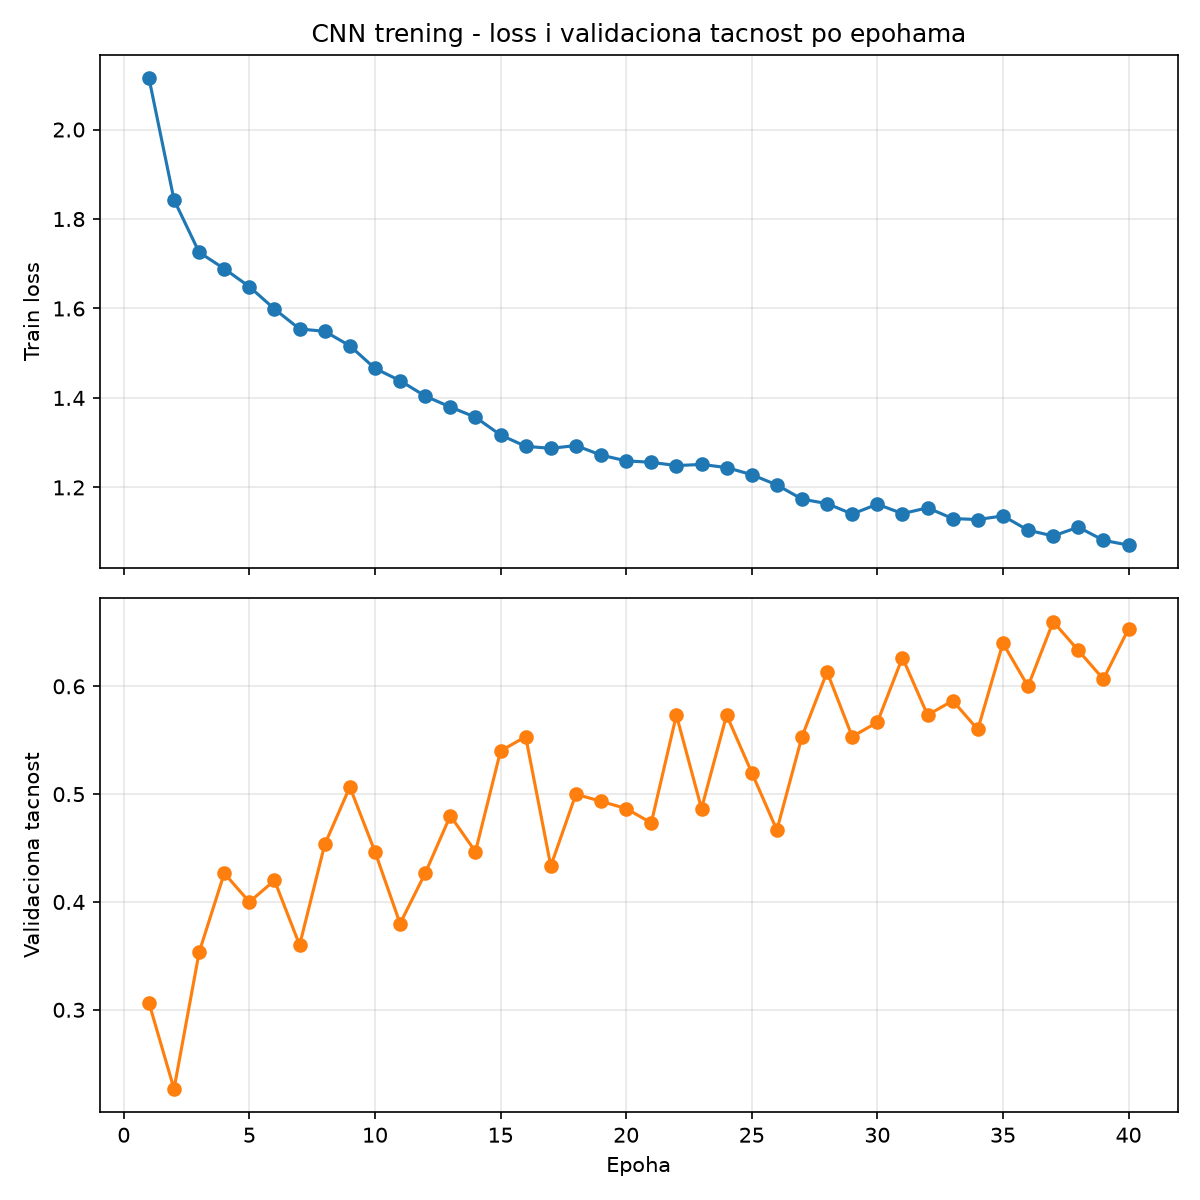
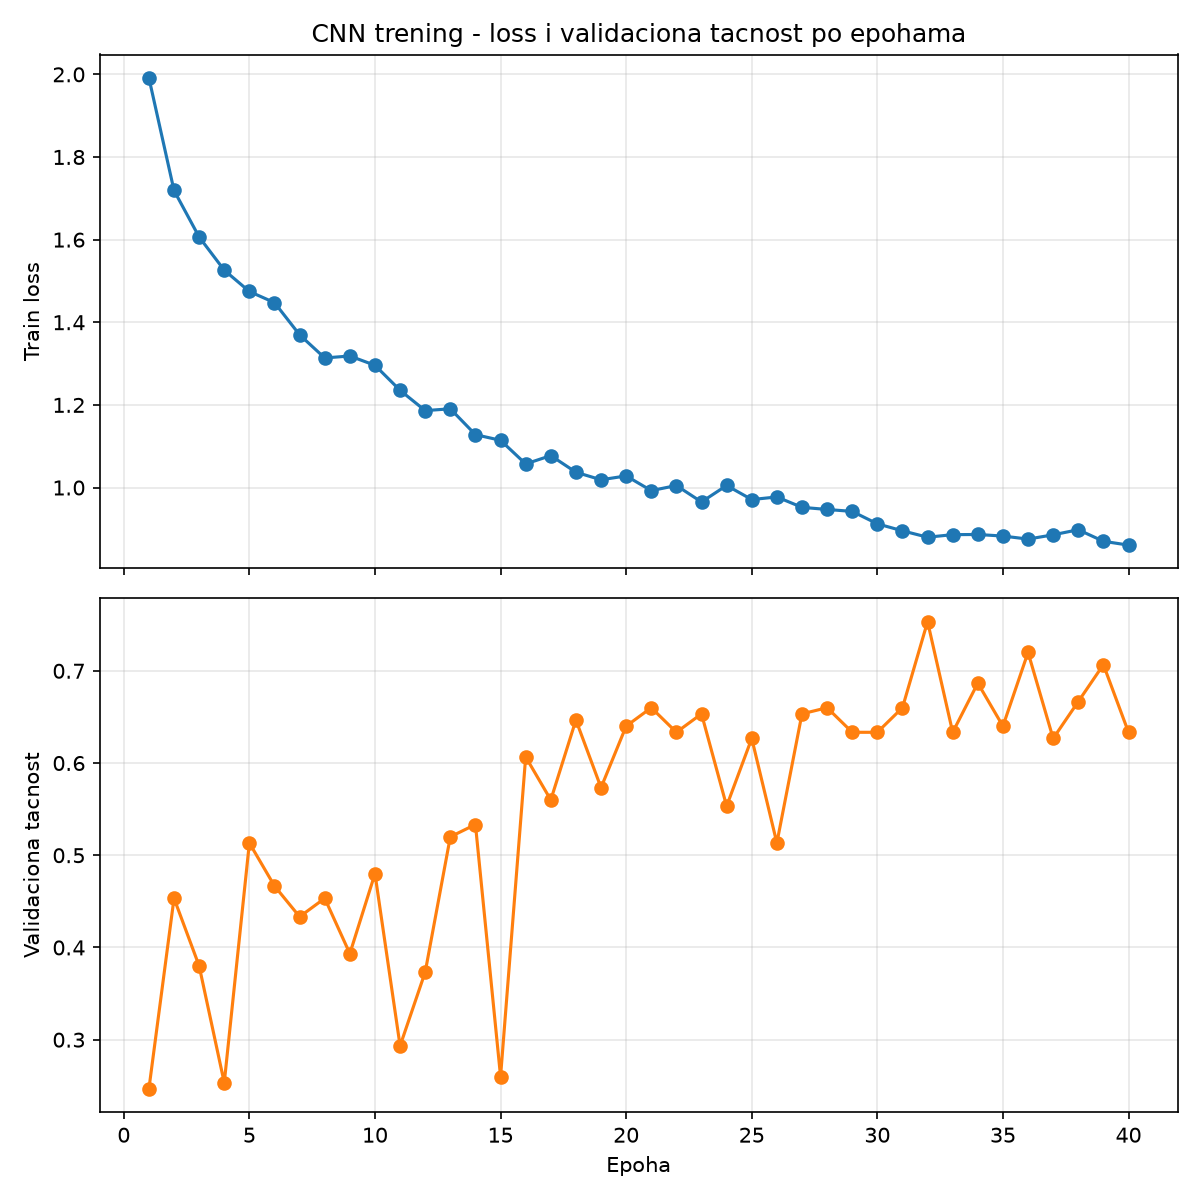
Add test-time averaging (evaluate.py); conclude SpecAugment/duplication diagnostics - best CNN result so far, 78% test accuracy

diff --git a/src/evaluate.py b/src/evaluate.py
@@ -1,15 +1,23 @@
-"""Evaluira sacuvani CNN checkpoint na test splitu."""
+"""Evaluira sacuvani CNN checkpoint na test splitu.
+
+Test-time averaging: za svaku test pesmu se uzima N_CROPS = 5 ravnomerno
+rasporedjenih isecaka cele pesme (bez nasumicnosti), za svaki se izracuna
+softmax verovatnoca po zanru, pa se te verovatnoce usrednje - konacna
+predikcija je zanr sa najvecom usrednjenom verovatnocom. Ovo je stabilnije
+od stare verzije koja je pravila predikciju na osnovu samo JEDNOG nasumicnog
+3-sekundnog isecka po pesmi."""
 import matplotlib
 matplotlib.use("Agg")
 import matplotlib.pyplot as plt
 import seaborn as sns
 import torch
-from torch.utils.data import DataLoader
 from sklearn.metrics import classification_report, confusion_matrix
 
 from config import load_config, MODELS_SAVED_DIR, RESULTS_DIR
 from datasets import GTZANSpectrogramDataset
 from models.cnn import GenreCNN
+
+N_CROPS = 5
 
 
 def run():
@@ -24,7 +32,6 @@ def run():
         segment_duration=cfg["data"]["segment_duration"],
         n_mels=cfg["data"]["n_mels"],
     )
-    test_loader = DataLoader(test_ds, batch_size=cfg["train"]["batch_size"])
 
     model = GenreCNN(n_genres=len(genres), n_mels=cfg["data"]["n_mels"]).to(device)
     model.load_state_dict(torch.load(MODELS_SAVED_DIR / "genre_cnn_best.pt", map_location=device))
@@ -32,12 +39,16 @@ def run():
 
     y_true, y_pred = [], []
     with torch.no_grad():
-        for x, y in test_loader:
+        for idx in range(len(test_ds.rows)):
+            x, label = test_ds.get_eval_crops(idx, n_crops=N_CROPS)
             x = x.to(device)
-            preds = model(x).argmax(dim=1).cpu()
-            y_true.extend(y.tolist())
-            y_pred.extend(preds.tolist())
+            probs = torch.softmax(model(x), dim=1)
+            avg_probs = probs.mean(dim=0)
+            pred = avg_probs.argmax().item()
+            y_true.append(label)
+            y_pred.append(pred)
 
+    print(f"(test-time averaging, {N_CROPS} isecaka po pesmi)")
     print(classification_report(y_true, y_pred, target_names=genres))
     cm = confusion_matrix(y_true, y_pred)
     print(cm)

diff --git a/src/datasets.py b/src/datasets.py
@@ -54,6 +54,43 @@ class GTZANSpectrogramDataset(Dataset):
         self._spec_cache[path] = full_log_mel
         return full_log_mel
 
+    def get_eval_crops(self, idx, n_crops=5):
+        """Vraca N ravnomerno rasporedjenih isecaka CELE pesme (bez
+        nasumicnosti, bez SpecAugment-a) - koristi se za test-time averaging
+        u evaluate.py: napravi se predikcija za svaki isecak, pa se softmax
+        verovatnoce usrednje umesto da se ceo rezultat oslanja na samo jedan
+        (nasumican) isecak. idx ovde ide 0..len(self.rows)-1 (BEZ mnozenja
+        sa samples_per_track - to je samo za trening)."""
+        row = self.rows[idx]
+        full_log_mel = self._get_full_spectrogram(row["path"])
+
+        frames_per_seg = int(round(
+            self.segment_duration * self.sample_rate / DEFAULT_HOP_LENGTH
+        ))
+        n_frames_total = full_log_mel.shape[1]
+
+        if n_frames_total > frames_per_seg:
+            offsets = np.linspace(0, n_frames_total - frames_per_seg, n_crops).astype(int)
+        else:
+            offsets = [0] * n_crops
+
+        crops = []
+        for f0 in offsets:
+            if n_frames_total > frames_per_seg:
+                log_mel = full_log_mel[:, f0:f0 + frames_per_seg].copy()
+            else:
+                pad_width = frames_per_seg - n_frames_total
+                log_mel = np.pad(
+                    full_log_mel, ((0, 0), (0, pad_width)),
+                    mode="constant", constant_values=full_log_mel.min(),
+                )
+            crops.append(log_mel)
+
+        # (n_crops, 1, n_mels, frames_per_seg)
+        x = torch.tensor(np.stack(crops), dtype=torch.float32).unsqueeze(1)
+        label = self.genre_to_idx[row["genre"]]
+        return x, label
+
     def __getitem__(self, idx):
         row = self.rows[idx % len(self.rows)]
         full_log_mel = self._get_full_spectrogram(row["path"])

diff --git a/src/features.py b/src/features.py
@@ -56,12 +56,12 @@ power_to_db pretvara sirove vrednosti energije (koje mogu biti ogromnog raspona)
 def extract_classical_features(y, sr, n_mfcc=20):
     """Vraca fiksni vektor feature-a (mean + std nekoliko deskriptora)
     za klasicni ML baseline (SVM / RandomForest)."""
-    mfcc = librosa.feature.mfcc(y=y, sr=sr, n_mfcc=n_mfcc)
-    chroma = librosa.feature.chroma_stft(y=y, sr=sr)
-    spec_centroid = librosa.feature.spectral_centroid(y=y, sr=sr)
-    spec_rolloff = librosa.feature.spectral_rolloff(y=y, sr=sr)
-    zcr = librosa.feature.zero_crossing_rate(y)
-    tempo, _ = librosa.beat.beat_track(y=y, sr=sr)
+    mfcc = librosa.feature.mfcc(y=y, sr=sr, n_mfcc=n_mfcc) #boja zvuka
+    chroma = librosa.feature.chroma_stft(y=y, sr=sr) #harmonija
+    spec_centroid = librosa.feature.spectral_centroid(y=y, sr=sr) #svetlina
+    spec_rolloff = librosa.feature.spectral_rolloff(y=y, sr=sr) #svetlina
+    zcr = librosa.feature.zero_crossing_rate(y) #sum/distorzija
+    tempo, _ = librosa.beat.beat_track(y=y, sr=sr) #brzina
 
     def stats(arr):
         return [np.mean(arr), np.std(arr)]

diff --git a/src/train_cnn.py b/src/train_cnn.py
@@ -25,10 +25,12 @@ def run():
         sample_rate=cfg["data"]["sample_rate"],
         segment_duration=cfg["data"]["segment_duration"],
         n_mels=cfg["data"]["n_mels"],
-        # DIJAGNOSTICKI TEST 2/3: SAMO SpecAugment (bez dupliranja isecaka),
-        # da se izoluje da li on izaziva kolaps 'blues' klase.
-        augment=True,
-        samples_per_track=1,
+        # Usvojena konfiguracija nakon izolacionog testiranja (18.09.2026):
+        # samples_per_track=2 sam po sebi daje najbolji rezultat (69% test / 75.3% val).
+        # SpecAugment se NE koristi zajedno sa samples_per_track=2 - ta kombinacija
+        # pouzdano izaziva kolaps 'blues' klase (vidi Dnevnik_rada.txt, testovi 1-4).
+        augment=False,
+        samples_per_track=2,
     )
     val_ds = GTZANSpectrogramDataset(
         f"{processed_dir}/val_manifest.csv", genres,
